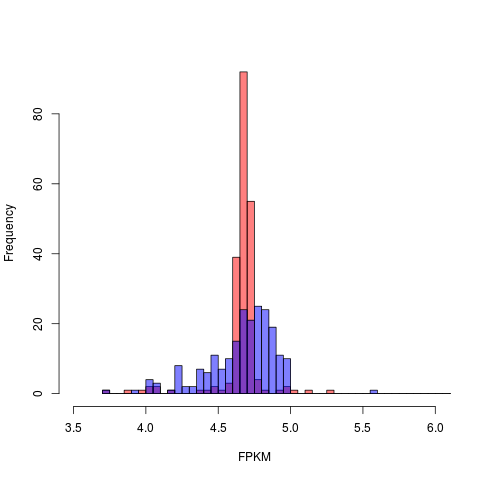
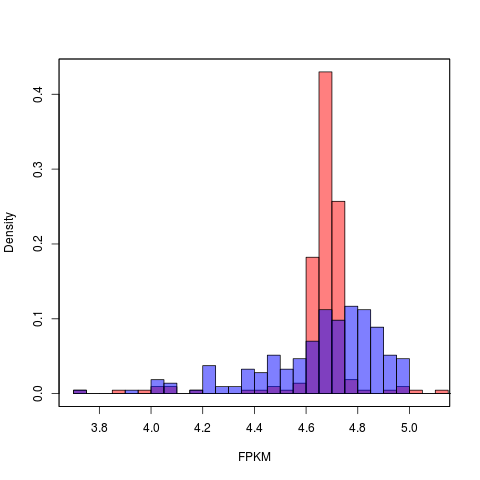
4:30am snapshot

diff --git a/fcnv/Recomb2014/alg.tex b/fcnv/Recomb2014/alg.tex
@@ -1,5 +1,5 @@
 \section{Methods}
-For our method we assume that we have WGS data for both parental genomes and deep sequencing data of cell free DNA from maternal plasma. We model CNVs corresponding to a single parental haplotype duplication or deletion event. For each inheritance pattern (normal inheritance, maternal duplication, paternal duplication, maternal deletion, paternal deletion) we introduce a set of \emph{phased inheritance patterns} that enumerates all the possible configurations of fetal haplotypes corresponding to the respective inheritance pattern. E.g. for maternal duplication we have six phased inheritance patterns: $M_AM_AP_A, M_AM_BP_A, M_BM_BP_A, M_AM_AP_B, M_AM_BP_B, M_BM_BP_B$. This also enables us to reconstruct the origin of a CNV.
+For our method we assume that we have WGS data for both parental genomes and deep sequencing data of cfDNA from maternal plasma. We model CNVs corresponding to a single parental haplotype duplication or deletion event. For each inheritance pattern (normal inheritance, maternal duplication, paternal duplication, maternal deletion, paternal deletion) we introduce a set of \emph{phased inheritance patterns} that enumerates all the possible configurations of fetal haplotypes corresponding to the respective inheritance pattern. E.g. for maternal duplication we have six phased inheritance patterns: $M_AM_AP_A, M_AM_BP_A, M_BM_BP_A, M_AM_AP_B, M_AM_BP_B, M_BM_BP_B$. This also enables us to reconstruct the origin of a CNV.
 
 Our method models two types of signal from the data (i) change of the allele distributions at SNP loci, and (ii) change in number of fragments sequenced from a particular genomic region. Though each of them is individual noisy, the two can be assumed independent for modelling purposes and combined into one model. For this purpose we use a hidden Markov model, where we interpret the allele counts at SNP loci as emissions, and the coverage is used as a prior multiplied into transition probabilities. In the following we first describe each signal processing separately and then show how we combine them into a joint prediction of fetal CNVs.
 
@@ -34,7 +34,7 @@ As we describe later, we can use this probability distribution $\N\(\vmu, \vSigm
 Note, that some observations have very similar probability under different phased patterns, e.g. some states of maternal deletion may yield distribution similar to paternal duplication. Incorporating the coverage signal into our main HMM helps to discriminate such states.
 
 \subsection{CNVs and Depth of Coverage}\label{ss:coverage}
-Variations in number of fragments sequenced per a region is a standard measure used for detection of mid to large sized CNVs\todo{citation}, and has lately been used for CNV detection from maternal plasma \cite{srinivasan2013, chen2013} as well. However the relatively low admixture of fetal DNA in the maternal plasma together with cell-free DNA sequencing biases considerably limit potential of methods relying on coverage signal from a single sample. Thus methods \cite{srinivasan2013, chen2013} require multiple datasets to establish a baseline for CNV calling.
+Variations in number of fragments sequenced per a region is a standard measure used for detection of mid to large sized CNVs [TODO: ref], and has lately been used for CNV detection from maternal plasma \cite{srinivasan2013, chen2013} as well. However the relatively low admixture of fetal DNA in the maternal plasma together with cfDNA sequencing biases considerably limit potential of methods relying on coverage signal from a single sample. Thus methods \cite{srinivasan2013, chen2013} require multiple datasets to establish a baseline for CNV calling.
 
 In our method, we use the coverage information as a noisy predictor to complement the signal we obtain from SNP loci. For a reference plasma sequencing coverage we use plasma sample of the G1 trio of \cite{kitzman2012} dataset.
 

diff --git a/fcnv/Recomb2014/intro.tex b/fcnv/Recomb2014/intro.tex
@@ -2,7 +2,7 @@
 
 Many genetic disorders, especially those associated with congenital malformations, are very difficult or impossible to treat. In such cases, prenatal screening of fetuses is one of the most promising alternatives. 
 Until recently, the prenatal analysis of a fetal genome required samples directly obtained from the fetus by invasive procedures like amniocentesis, where amniotic fluid is sampled from around the developing fetus.
-Amniocentesis, however has several important disadvantages: foremost, it carries a non-trivial risk of miscarriage (estimated as 0.5-2\%) [TODO:ref], and hence is refused by a fraction of patients. Secondly, amniocentesis cannot be performed too early, as the risk of miscarriage rises significantly, and is typically indicated for 15th week of pregnancy, outside of the time-frame for the safest abortion options ($<$12 weeks) and leaving only limited time for follow-up analysis before the fetus is viable. Finally amniocentesis is a complex and expensive medical procedure (\$1,500-3,000). Consequently amniocentesis is typically performed only in case of suspicion of a genetic disease (e.g. high likelihood of Down syndrome based on prenatal ultrasound), to confirm or reject a diagnosis. 
+Amniocentesis, however has several important disadvantages: foremost, it carries a non-trivial risk of miscarriage (estimated as 0.5-2\%), and hence is refused by a fraction of patients. Secondly, amniocentesis cannot be performed too early, as the risk of miscarriage rises significantly, and is typically indicated for 15th week of pregnancy, outside of the time-frame for the safest abortion options ($<$12 weeks) and leaving only limited time for follow-up analysis before the fetus is viable. Finally amniocentesis is a complex and expensive medical procedure (\$1,500-3,000). Consequently amniocentesis is typically performed only in case of suspicion of a genetic disease (e.g. high likelihood of Down syndrome based on prenatal ultrasound), to confirm or reject a diagnosis. 
 
 The last several years have seen the initial development of alternative, non-invasive methods for prenatal genetic testing. Prominent among these are methods that are based on analysis (arrays or sequencing) of  cell-free DNA (cfDNA) extracted from maternal blood plasma, which contains an admixture of fetal and maternal DNA. The fraction of fetal DNA in such an admixture varies depending on multiple factors, including maternal weight and size of the fetus, but typically builds up from ~5-7\% early in the pregnancy [TODO:ref] to 10\% at week 10 \cite{wang2013} to as much as 50\% before delivery \cite{wang2013, fan2012}. In experiments conducted by \cite{kitzman2012} (and utilized in this paper) the estimated admixture in samples obtained at 8 weeks of gestation was 7\% and at 18.5 weeks of gestation was 13\%. 
 

diff --git a/fcnv/Recomb2014/simulation.tex b/fcnv/Recomb2014/simulation.tex
@@ -1,4 +1,4 @@
-\subsection{Realistic CNV Simulation}\label{ss:simulation}
+\subsection{CNV Simulation \emph{in silico}}\label{ss:simulation}
 For the purpose of CNV simulation we need to resolve the haplotypes of every individual in the trio, to correctly add or remove reads originating from a target haplotype of the CNV event. Similarly, to our detection method, we used Beagle 4 with 1000 genome project reference haplotypes but with the pedigree information of the phased trio.
 
 	In order to simulate a duplication, of either maternal or paternal origin, we used the parental DNA sequencing data from the family trio data set. First, we filtered for reads mapping to the intended region of duplication that also match the target haplotype of the parent according to the parental phasing. In case of reads not uniquely mapping to either of the two parental haplotypes, i.e. the read mapped to a region without any heterozygous SNP locus, the read was selected randomly with a probability of $0.5$. Subsequently, the filtered reads were uniformly down-sampled according to fetal DNA mixture ratio and the original plasma DOC in this region to match the expected number of reads derived from a single fetal haplotype in a plasma sequencing. Resulting reads were then mixed together with original plasma reads to create a plasma sample containing a duplication in the fetal genome.

diff --git a/fcnv/Recomb2014/res.tex b/fcnv/Recomb2014/res.tex
@@ -33,6 +33,10 @@ Lastly, we have repeated previously described experiments on maternal plasma wit
 
 \todo[inline]{DOC variance: maternal vs plasma sequencing}
 
+\begin{figure}[h]
+\center\includegraphics[width = 0.7\textwidth]{figures/fpkm}
+\caption{TEXT}\label{fig:fpkm}
+\end{figure}
 
 
 \input simulation
